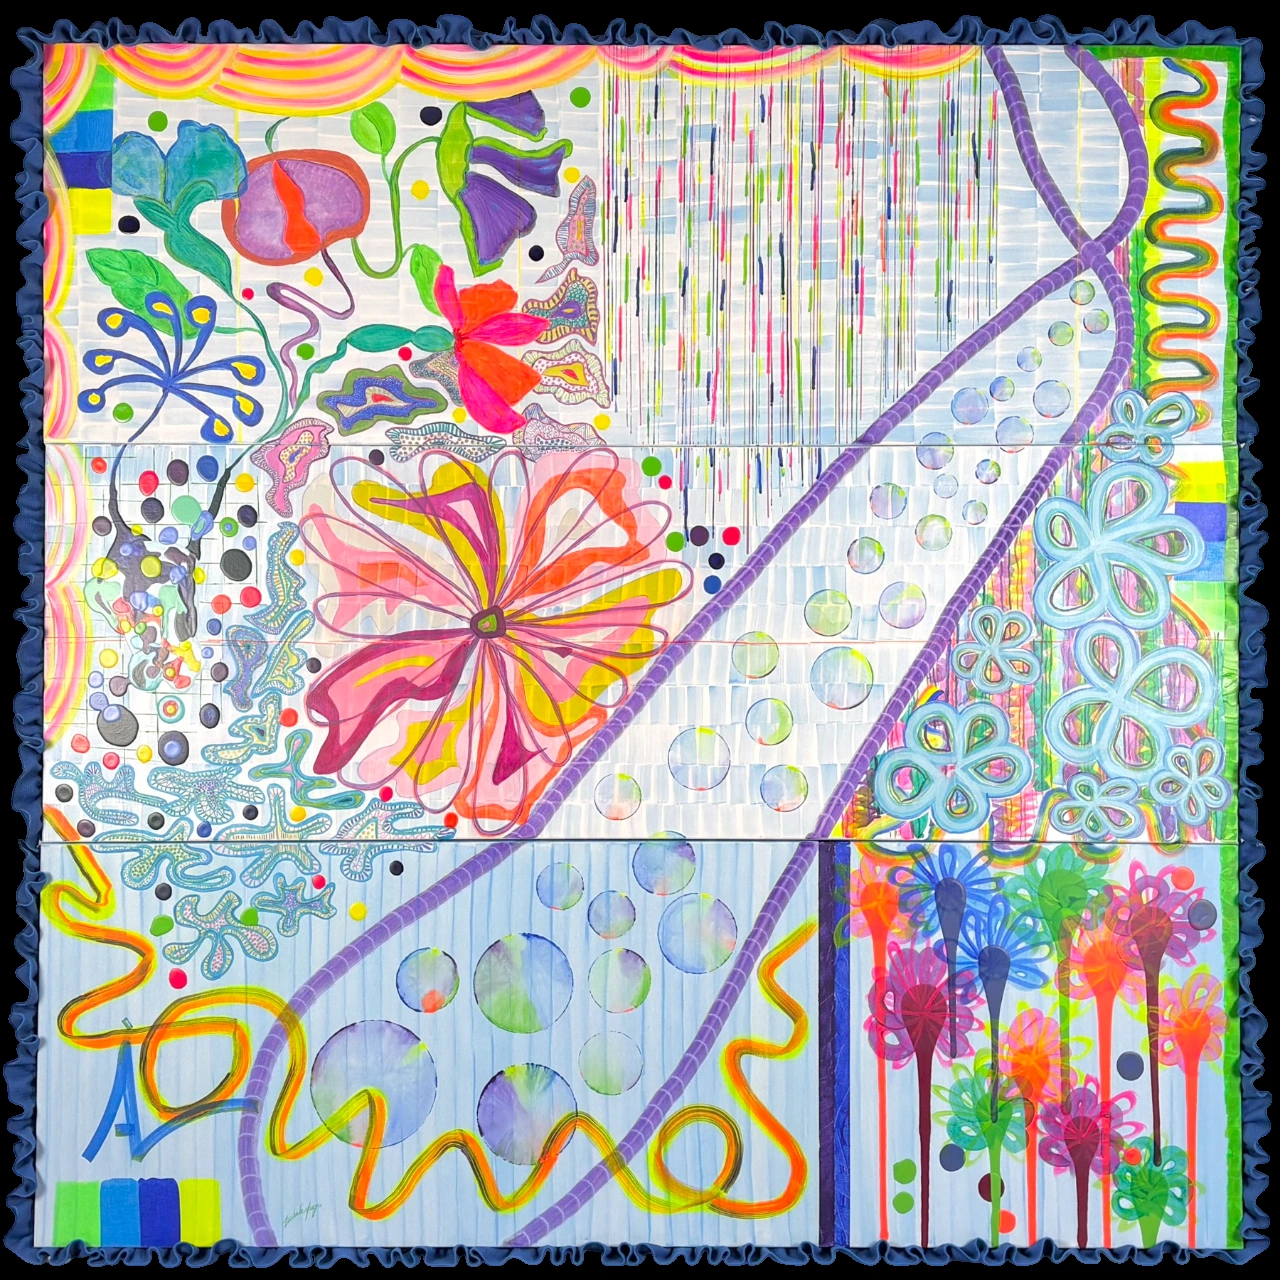
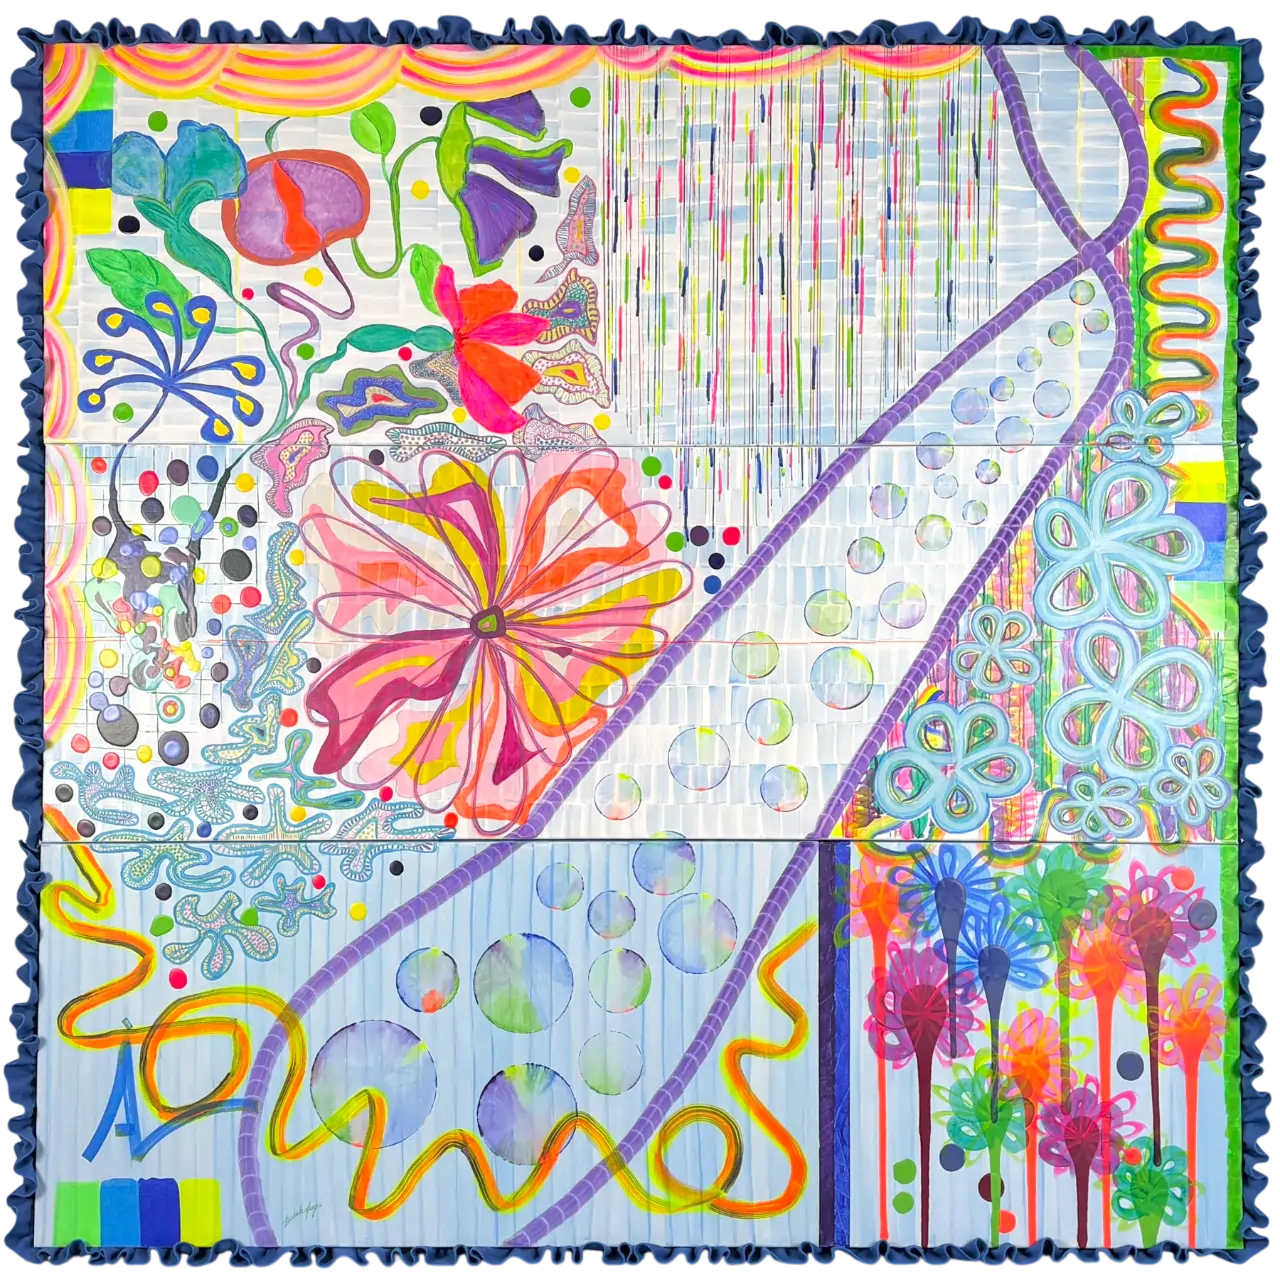
accueil image fix

Changed region(s): [[0.0, 0.0, 1.0, 1.0]]

diff --git a/src/data.js b/src/data.js
@@ -88,7 +88,7 @@ import envole from './assets/images/envole.jpeg'
 import envole2 from './assets/images/envole2.jpeg'
 import envole3 from './assets/images/envole3.jpeg'
 
-import imageAccueil from './assets/images/imageAccueil.png'
+import imageAccueil from './assets/images/imageAccueil.webp'
 
 import expocrepchignon from './assets/images/expocrepchignon.png'
 
